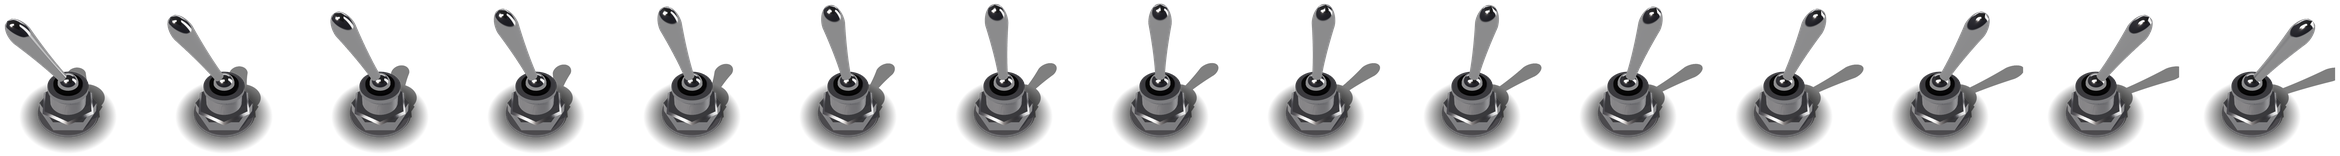
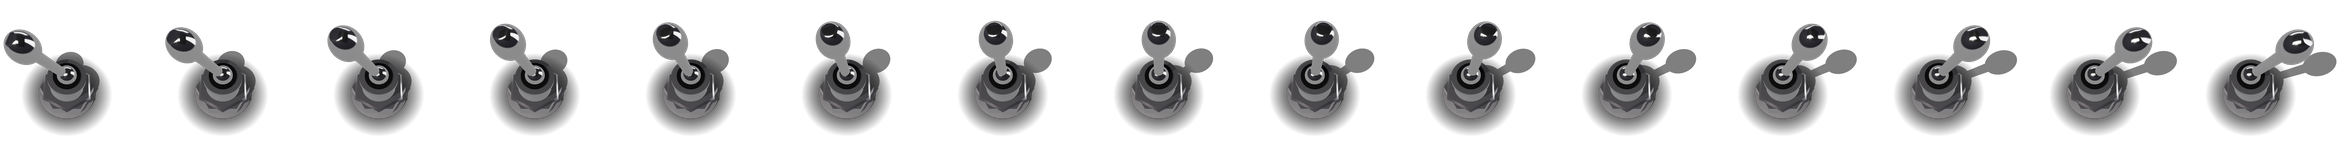
Switches seen from above, with a bulb on the lever to take hold of
The toggle is now looked down on the way a console is, the camera well
overhead rather than in front, so the nut reads as a hexagon and the
lever's lean shows as its knob swinging out to the side; the key light
is more overhead too, so the shadow stays close. The lever has a proper
bulb at the top, a thin shaft swelling into a knob a finger takes hold
of, in place of the slight taper it had. The strip is baked afresh.

Claude-Session: https://claude.ai/code/session_01Dmg3qgF2RMqA8VqrgFUq5h

diff --git a/web/tools/toggle3d/toggle3d.html b/web/tools/toggle3d/toggle3d.html
@@ -43,12 +43,12 @@ scene.environment = pmrem.fromScene(studio(), 0.02).texture;
 scene.environmentIntensity = 1.0;
 
 const camera = new THREE.PerspectiveCamera(26, 1, 1, 400);
-camera.position.set(0, 84, 74);
-camera.lookAt(0, 17.5, 0);
+camera.position.set(0, 112, 50);
+camera.lookAt(0, 9, 0);
 
 // the key light, top left and in front, for the shadow
 const key = new THREE.DirectionalLight(0xfff4ea, 2.2);
-key.position.set(-30, 60, 35);
+key.position.set(-34, 80, 30);
 key.castShadow = true;
 key.shadow.mapSize.set(2048, 2048);
 key.shadow.camera.left = -30; key.shadow.camera.right = 30; key.shadow.camera.top = 30; key.shadow.camera.bottom = -30;
@@ -113,11 +113,14 @@ lever.position.y = pivotY;
 parts.add(lever);
 const ball = new THREE.Mesh(new THREE.SphereGeometry(3.0, 48, 32), chrome); ball.castShadow = true; lever.add(ball);
 const profile = [];
-const L = 24;
-for (let i = 0; i <= 40; i++) {
-  const u = i / 40;                          // along the handle
+const L = 23;
+for (let i = 0; i <= 60; i++) {
+  const u = i / 60;                          // along the handle
   const y = 2.0 + u * L;
-  const r = u < 0.78 ? 1.35 + 1.55 * Math.pow(u / 0.78, 1.6) : 2.9 * Math.sqrt(Math.max(0, 1 - Math.pow((u - 0.78) / 0.22, 2)));
+  // a shaft of 1.4 that swells into a bulb of 4.3 centred at 77% of the way up, rounded off at the top
+  const bulb = 4.3 * Math.sqrt(Math.max(0, 1 - Math.pow((u - 0.77) / 0.25, 2)));
+  const shaft = 1.4 + 0.9 * Math.pow(u, 2);
+  const r = Math.max(shaft * (u < 0.98 ? 1 : 0), bulb);
   profile.push(new THREE.Vector2(Math.max(0.001, r), y));
 }
 profile.push(new THREE.Vector2(0.001, 2.0 + L + 0.01));
